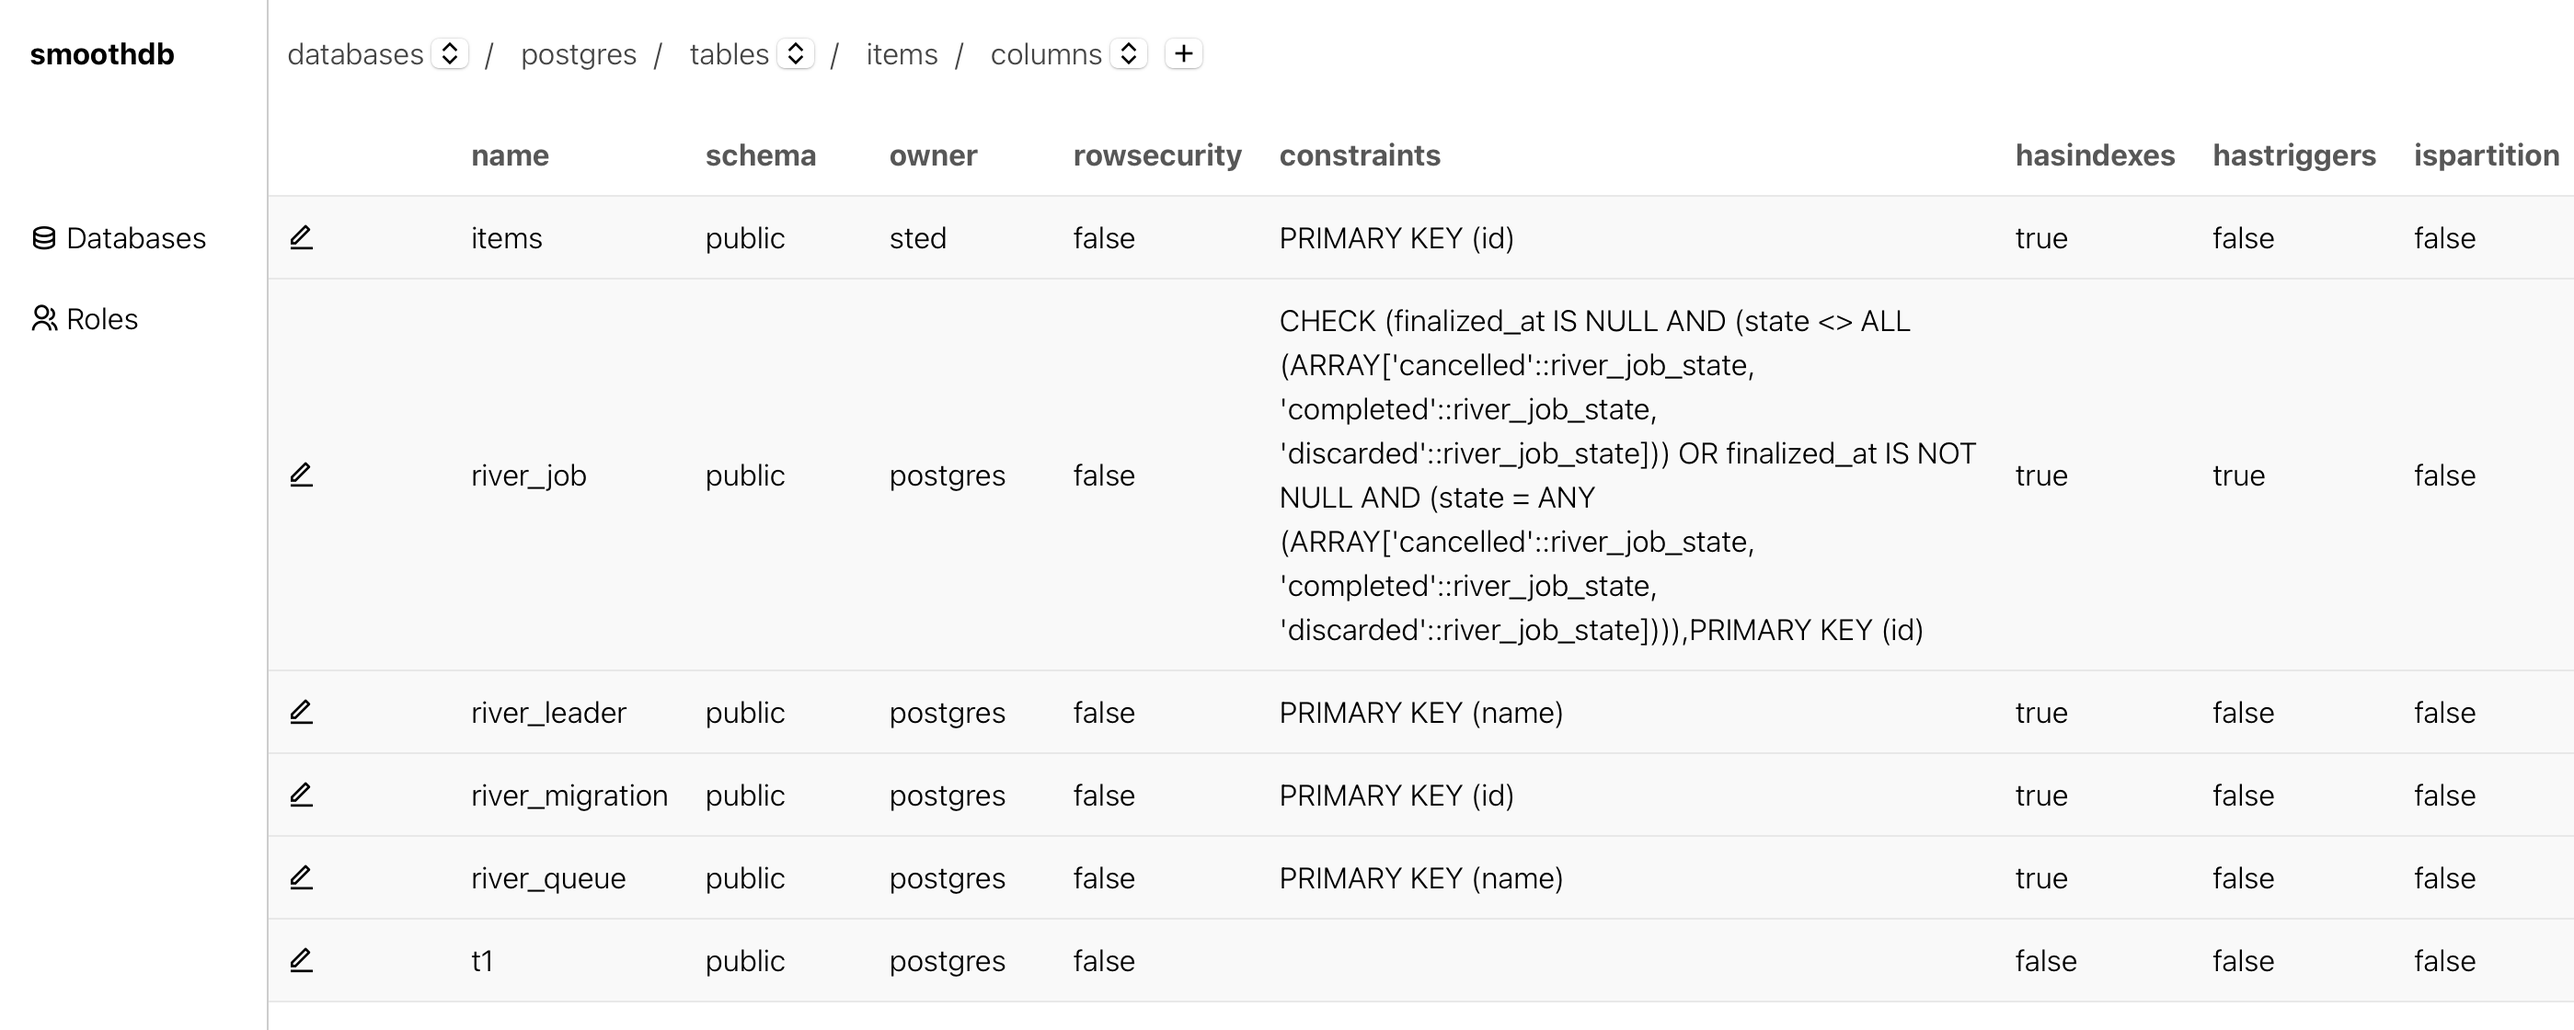
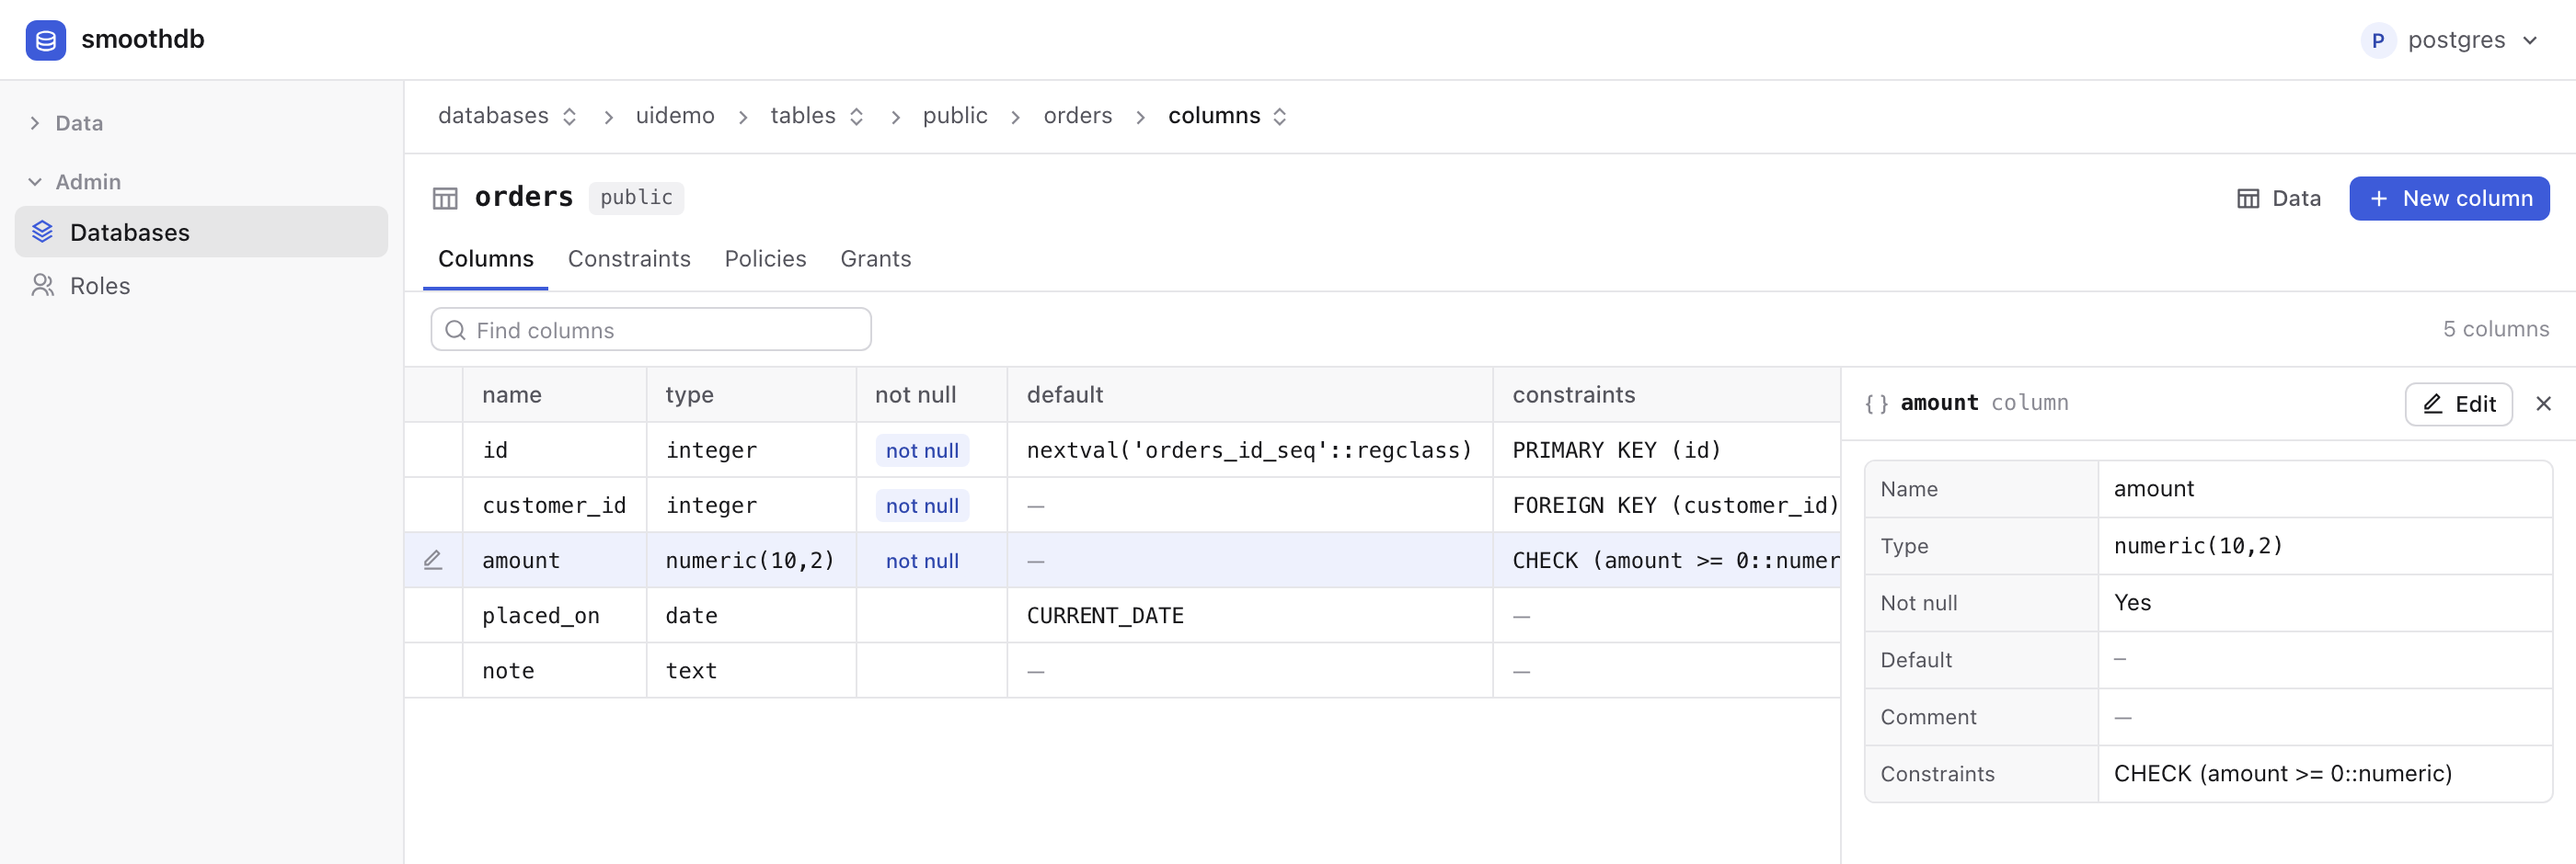
docs: release 0.12.0
Compact the Authentication section of the README, describe the new UI and
replace its screenshot, and add TokenExpiry and Database.MaxRows to the
configuration table.

diff --git a/README.md b/README.md
@@ -14,7 +14,7 @@ The main differences are:
 * Can be used both stand-alone and as a library (the main motivation for writing this)
 * It also supports DDL operations (create / alter / drop databases, tables, manage constraints, roles, etc)
 * Supports multiple databases with a single instance
-* It has an Admin UI web dashboard
+* It has a web UI to browse and edit data and to manage the schema
 
 See [TODO.md](TODO.md) for the many things to be completed.
 Please create issues to let me know your priorities.
@@ -72,82 +72,34 @@ The default Content-Type is "**application/json**".
 
 ### Authentication
 
-Like PostgREST (see [PostgREST Authentication](https://postgrest.org/en/stable/references/auth.html)), SmoothDB is designed to keep the database at the center of API security.
+As in PostgREST ([Authentication](https://postgrest.org/en/stable/references/auth.html)), the database is at the center of API security: a request runs as the role in its JWT, and the database grants and policies decide what it can do.
 
-To make an authenticated request, the client must include an Authorization HTTP header with the value **Bearer \<jwt\>**, where **jwt** is a [Java Web Token](jwt.io). 
-
-A valid JWT for SmoothDB must include at least the **role** claim in the payload:
-
-```json
-{
-    "role": "user1"
-}
-```
-
-To generate a JWT for testing, you can use the generator at [jwt.io](jwt.io), using as a secret the same value configured in the configuration file for JWTSecret.
-
-Token verification follows PostgREST's (`jwt-secret`, `jwt-secret-is-base64`, `jwt-aud`, `jwt-role-claim-key`), with a fixed 30-second clock skew on `exp`, `nbf` and `iat`:
-
-- `JWTRoleClaimKey` (default `$.role`) locates the role in the claims, with a subset of PostgREST's JSONPath: `$`, `.name`, `['name']`, `[index]` and one filter on the current element (`[?@ == "text"]`, `[?@ != "text"]`, `[?search(@, "regex")]`), e.g. `$.app_metadata.role`. Anything else stops the server at startup; the JSPath syntax of PostgREST 15 is still read. With `LoginMode: "db"` it must be the default.
-- `JWTAud`, when set, must appear in the token's `aud` claim.
-- `JWTSecretIsBase64` reads `JWTSecret` as base64.
-- `JWTSecret` is a passphrase (HS256), a JWK or a JWK set; with keys, a token is verified by those matching its `kid`, or by all when it has none.
-- `JWTKeys` (`SMOOTHDB_JWT_KEYS`) is a catalog of JWKs with unique `kid`s that verifies in place of `JWTSecret`: tokens without `kid` fall back to its `oct` keys, so HS256 and ES256 tokens verify at once during a key migration.
-
-Below is an example of an authenticated API call:
+Send the token in the `Authorization` header. The token needs at least a `role` claim, for example `{"role": "user1"}`:
 
 ```http
-GET /test HTTP/1.1
+GET /api/testdb/test HTTP/1.1
 Authorization: Bearer eyJhbGciOiJIUzI1NiIsInR5cCI6IkpXVCJ9.eyJyb2xlIjoic3RlZCJ9.-XquFDiIKNq5t6iov2bOD5k_LljFfAN7LqRzeWVuv7k
 ```
 
-#### Token Generation
+Token verification is the same as in PostgREST. Configure it with `JWTSecret` or `JWTKeys`, `JWTAud`, `JWTRoleClaimKey` and `JWTSecretIsBase64` (see [Configuration file](#configuration-file)). For a test token, sign `{"role": "..."}` on [jwt.io](https://jwt.io) with your `JWTSecret`.
 
-SmoothDB provides a `/token` endpoint that generates JWT tokens:
+#### Token generation
+
+`POST /token` signs a token. `LoginMode` selects how it checks the credentials:
+
+* `"db"` checks a PostgreSQL role and its password. Use it for development.
+* `"gotrue"` sends the credentials to the Supabase Auth service at `AuthURL`. Use it in production.
 
 ```http
 POST /token HTTP/1.1
 Content-Type: application/json
 
-{
-    "email": "user@example.com",
-    "password": "your_password"
-}
+{ "email": "user@example.com", "password": "your_password" }
 ```
 
-The response contains the access token and related information:
+The response holds `access_token`, `token_type`, `expires_in`, `expires_at`, `refresh_token` and `user`.
 
-```json
-{
-    "access_token": "eyJhbGciOiJIUzI1NiIsInR...",
-    "token_type": "Bearer",
-    "expires_in": 3600,
-    "expires_at": 1683036800,
-    "refresh_token": "aaaabbbbccccddddeeee",
-    "user": {
-        "aud": "authenticated",
-        "role": "authenticated",
-        "email": "user@example.com"
-    }
-}
-```
-
-SmoothDB supports two authentication methods via the `LoginMode` configuration option:
-
-1. **Internal Authentication** (`LoginMode: "db"`), suitable for local development but not recommended for production. Credentials are verified against PostgreSQL database users. 
-
-2. **Supabase Auth** (`LoginMode: "gotrue"`), recommended for production applications. Authentication is delegated to the Supabase Auth service specified in the `AuthURL` configuration.
-
-**Important Notes:**
-
-- No explicit authorization step is needed beyond providing the JWT token with each request
-- Both authentication methods require email and password for token generation through the `/token` endpoint
-- `/token` is the one route reachable without credentials, so it is rate limited per client address (`LoginRateLimit` attempts per minute, answered `429` with a `Retry-After` header beyond that; proxy headers are not trusted for the address) and its body is capped by `RequestMaxBytes` like every other route
-- With `SessionMode: "claims"` (the default), a session keyed by the token caches the verified claims, so a repeated token is not re-verified; its expiry is still checked on every request, and a session left half-built by a failed request is discarded. `none` verifies every token on every request. Either way the database connection goes back to the pool at the end of each request: a request's role, claims and access mode are transaction-local and travel with its first statement, as in PostgREST.
-- `SessionMode: "role"` is deprecated and now means `claims` (the server warns at startup). It kept the prepared connection attached to the session between requests to save the role switch; once the request variables travel with the first statement that saved nothing measurable, and the connections the sessions kept starved the requests beyond the pool size.
-- `JWTSecret` must be set whenever authentication is enabled (`LoginMode` other than `none`; with `JWTKeys` only `"db"` needs it, to sign `/token` tokens): the server refuses to start with an empty secret, because an empty HMAC key would let anyone forge a token for any role. Set it in the configuration file or via the `SMOOTHDB_JWT_SECRET` environment variable. In debug mode (`SMOOTHDB_DEBUG=true`) a random secret is generated automatically for the run. With `LoginMode: "none"` the secret may stay empty, and then, without `JWTKeys`, every bearer token is refused with 401 rather than verified against the empty key.
-- When TLS is configured (`CertFile`/`KeyFile`), a certificate that fails to load is a fatal startup error - SmoothDB will not silently fall back to plaintext HTTP.
-- The configuration file holds secrets (the JWT secret and the database URL with its password); it is written with `0600` permissions. Keep it that way and out of version control.
+The server does not start without a `JWTSecret` when `LoginMode` is not `"none"` (with `JWTKeys`, only for `"db"`). `/token` is rate limited per client address (`LoginRateLimit`).
 
 We will omit the Authorization header in the following examples.
 
@@ -722,19 +674,21 @@ in the examples directory and browse to *localhost:8085/products* and *localhost
 
 ![](/misc/screenshot.png)
 
-A simple interface for the basic administration commands.
+The web UI is served at `/ui`. It has two areas:
 
-It allows to configure databases, tables, colums, roles, etc., must be explicitly enabled and for now needs the configuration of the anonymous role to work.
+* **Data**: browse, filter, sort and edit the rows of tables and views, with typed filters, related columns and a record panel.
+* **Admin**: manage databases, roles, schemas, tables, columns, constraints, policies, views, functions and grants, with guided forms.
 
-These are the required configurations:
+Enable it with `EnableAdminUI`. The Admin area also needs `EnableAdminRoute`:
 
-```json 
+```json
 {
-	"AllowAnon": true,
- 	"EnableAdminRoute": true,
-	"EnableAdminUI": true,
-} 
+	"EnableAdminRoute": true,
+	"EnableAdminUI": true
+}
 ```
+
+The UI signs in with `/token` (`LoginMode` `"db"` or `"gotrue"`). With `AllowAnon` and a `Database.AnonRole` it also works without a login.
 
 ## Plugins
 
@@ -795,11 +749,12 @@ The configuration file *config.jsonc* (JSON with Comments) is created automatica
 | AuthURL | URL of the external AuthN service | "" |
 | LoginRateLimit | Max POST /token attempts per minute per client address, 0 to disable | 30 |
 | AllowAnon | Allow unauthenticated connections; also requires a non-empty Database.AnonRole, otherwise anonymous requests are refused (401) | false |
-| JWTSecret | Secret for JWT tokens: a passphrase, a JWK or a JWK set, see [Authentication](#authentication) | "" |
+| JWTSecret | Secret for JWT tokens: a passphrase (HS256), a JWK or a JWK set. Required when LoginMode is not "none" (with JWTKeys, only for "db") | "" |
 | JWTSecretIsBase64 | JWTSecret is base64-encoded | false |
 | JWTAud | Audience the JWT `aud` claim must contain, when present; "" for any | "" |
-| JWTRoleClaimKey | JSONPath of the role in the JWT claims, see [Authentication](#authentication) | "$.role" |
-| JWTKeys | Key catalog verifying JWT tokens instead of JWTSecret: a JSON array of JWKs with kid, see [Authentication](#authentication) | "" |
+| JWTRoleClaimKey | JSONPath of the role in the JWT claims, a subset of PostgREST's (e.g. `$.app_metadata.role`) | "$.role" |
+| JWTKeys | Key catalog that verifies JWT tokens instead of JWTSecret: a JSON array of JWKs with unique kid | "" |
+| TokenExpiry | Expiry of the tokens that /token signs (seconds, 0 for no expiry) | 86400 |
 | SessionMode | Session mode: "none" (no cache), "claims" (cache the verified claims); "role" is a deprecated alias of "claims" | "claims" |
 | MaxSessions | Maximum number of cached sessions; beyond it a request runs without a session | 10000 |
 | EnableAdminRoute | Enable administration of databases and tables | false |
@@ -820,13 +775,14 @@ The configuration file *config.jsonc* (JSON with Comments) is created automatica
 | VerboseErrors | Return full database error details (hint, detail) to clients; off by default because they help fingerprint the schema | false |
 | RequestMaxBytes | Max bytes allowed in requests, to limit the size of incoming request bodies (0 for unlimited) | 1048576 (1MB) |
 | Database.URL | Database URL as postgresql://user:pwd@host:port/database | "" |
-| Database.MinPoolConnections | Miminum connections per pool | 10 |
+| Database.MinPoolConnections | Minimum connections per pool | 10 |
 | Database.MaxPoolConnections | Maximum connections per pool | 100 |
 | Database.AnonRole | Role for anonymous requests, and for tokens without a role claim, when AllowAnon is true; empty refuses anonymous access (like PostgREST's unset db-anon-role). Set it to an explicit non-superuser role, never the connecting role | "" |
 | Database.AllowedDatabases | Allowed databases | [] for all |
 | Database.SchemaSearchPath | Schema search path of the connections (name resolution of unqualified types, functions and views) | [] for Postgres search path |
 | Database.ExposedSchemas | Schemas a request may select with `Accept-Profile`/`Content-Profile`, the first being the default (PostgREST's `db-schemas`); a header naming another schema answers 406 | [] for every schema, with the first of the search path as default |
 | Database.TransactionMode | General transaction mode for operations: "none", "commit", "rollback" (also "commit-allow-override", "rollback-allow-override", overridable per request with `Prefer: tx=commit` / `tx=rollback`). Whatever the mode, GET and HEAD requests (and POST calls to STABLE or IMMUTABLE functions) run read-only, see [Functions](#functions) | "none" |
+| Database.MaxRows | Maximum rows a read answers, at the top level and in each embed (PostgREST's `db-max-rows`); 0 for no limit | 0 |
 | Database.AggregatesEnabled | Enable aggregate functions | true |
 | Database.MaxRecursiveDepth | Maximum recursive query depth; 0 disables recursive queries | 100 |
 | Database.PoolAcquisitionTimeout | Seconds a request waits for a pool connection before answering 504 `PGRST003` (PostgREST's `db-pool-acquisition-timeout`); 0 to wait without a bound | 10 |

diff --git a/CHANGELOG.md b/CHANGELOG.md
@@ -1,8 +1,15 @@
 # Change Log
 
-## Unreleased
+## 0.12.0 - 2026-11-13
 
-**PostgREST 16.4 spec cases: 1097 run, 528 skipped (67.5%)**
+**PostgREST 16.4 spec cases: 1098 run, 528 skipped (67.5%)**
+
+### Added
+* **New web UI** — a login page, a Data area to browse, filter and edit rows, with typed filters, related columns and a record panel, and an Admin area rebuilt on one side panel, with guided forms for constraints, views, functions, policies and grants; the server writes its login mode and base URLs into the UI page.
+* **Admin functions** — create or replace a function with its volatility, strictness and security, and drop one overload with `?args=`.
+* **Admin views** — replace a view, change its name, owner or schema with PATCH, and drop a materialized view.
+* **Admin policy PATCH** — change the name, roles, `USING` and `WITH CHECK` of a policy.
+* **Column `typedef`** — the admin column list gives the full type with its modifier, such as `numeric(10,2)`.
 
 ### Fixed
 * **`$info` describes only exposed tables** — `GET /api/<db>/$info/:table` refuses a schema that is not exposed with a 406, as the other routes do.
@@ -18,6 +25,12 @@
 * **Query builder correctness** — embed filter values are bound, `"a.b"` is one column at every level, a request builds the same SQL twice, and a recursive select keeps its values intact.
 * **Intervals, timestamps and multi-dimensional arrays as `to_json` writes them** — intervals are PostgreSQL's own text, a `timestamp` has no `Z`, and `int[][]` is nested arrays.
 * **Embeds resolve the same way on every schema load** — relationships are built in a fixed order, and a relationship to a schema that is not exposed is dropped, as PostgREST's `removeInternal`.
+* **Admin grants** — the table routes accept tables, column grants apply and show in the list, and the schema and function grants are readable.
+* **Admin policies** — the command must be one of PostgreSQL's, and the schema comes from the profile header.
+* **Admin names and status codes** — a dotted path segment is one object name, a table rename answers with the new name, and a table PATCH answers 200.
+
+### Changed
+* **The UI needs no anonymous access** — with `LoginMode` `"db"` or `"gotrue"` it shows a login page; `AllowAnon` is needed only to use it without a login.
 
 ## 0.11.0 - 2026-11-04
 
